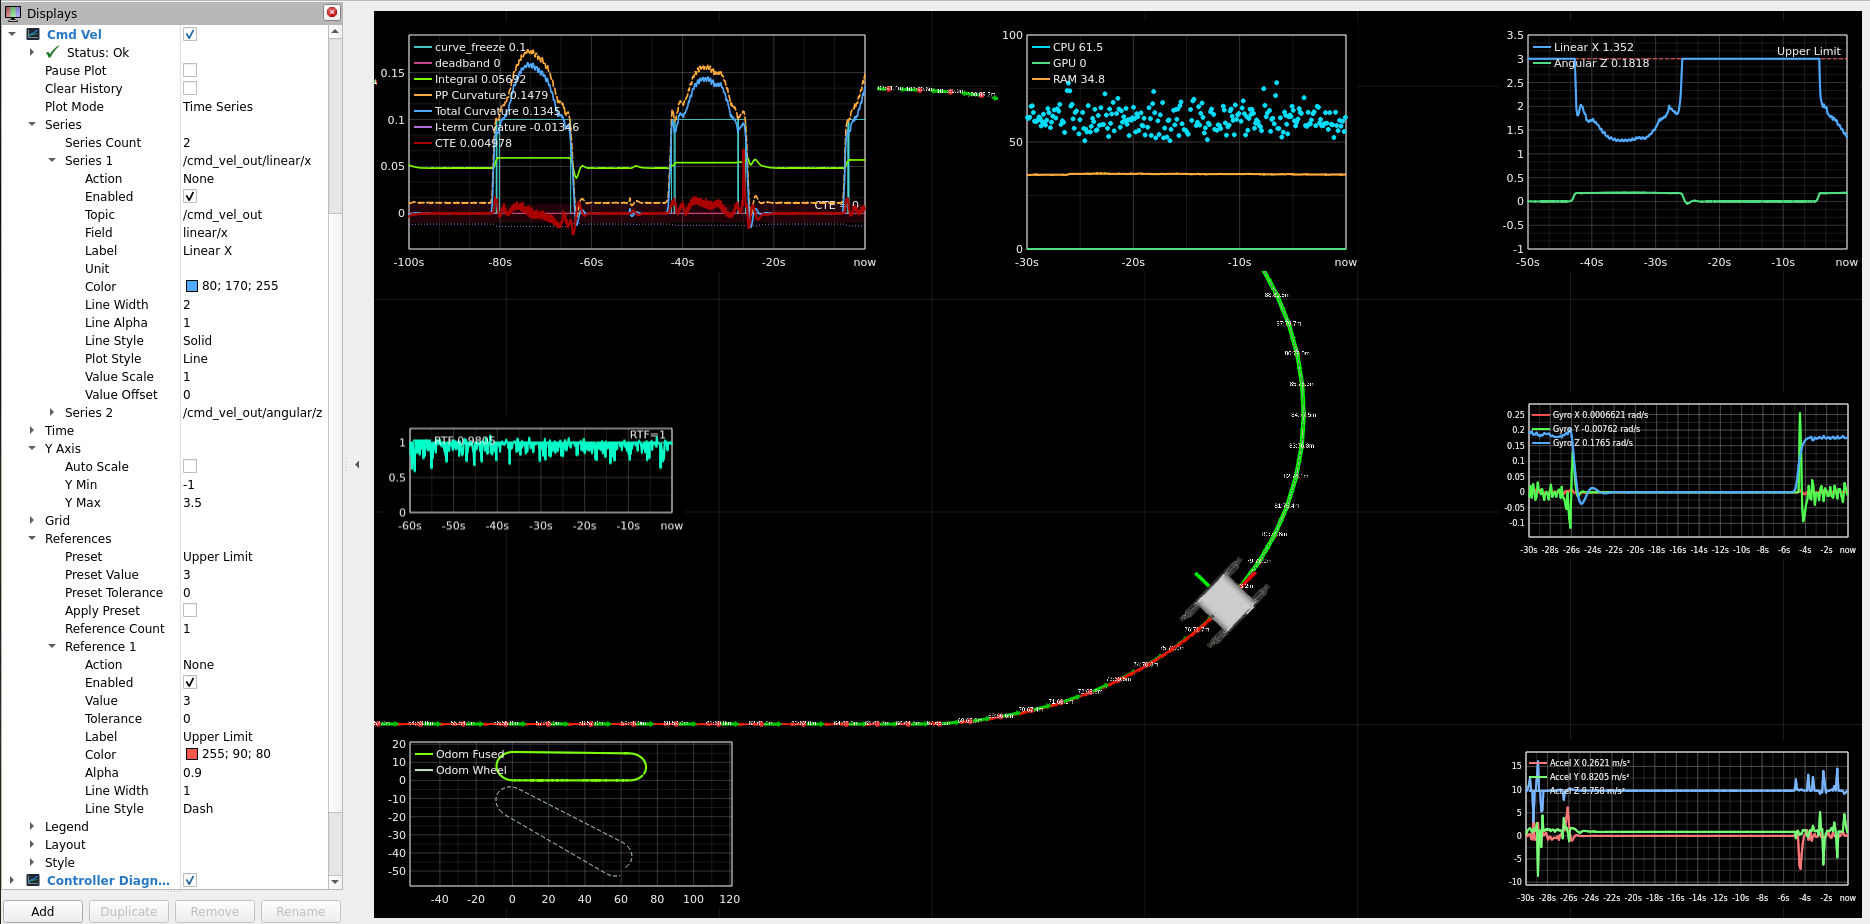
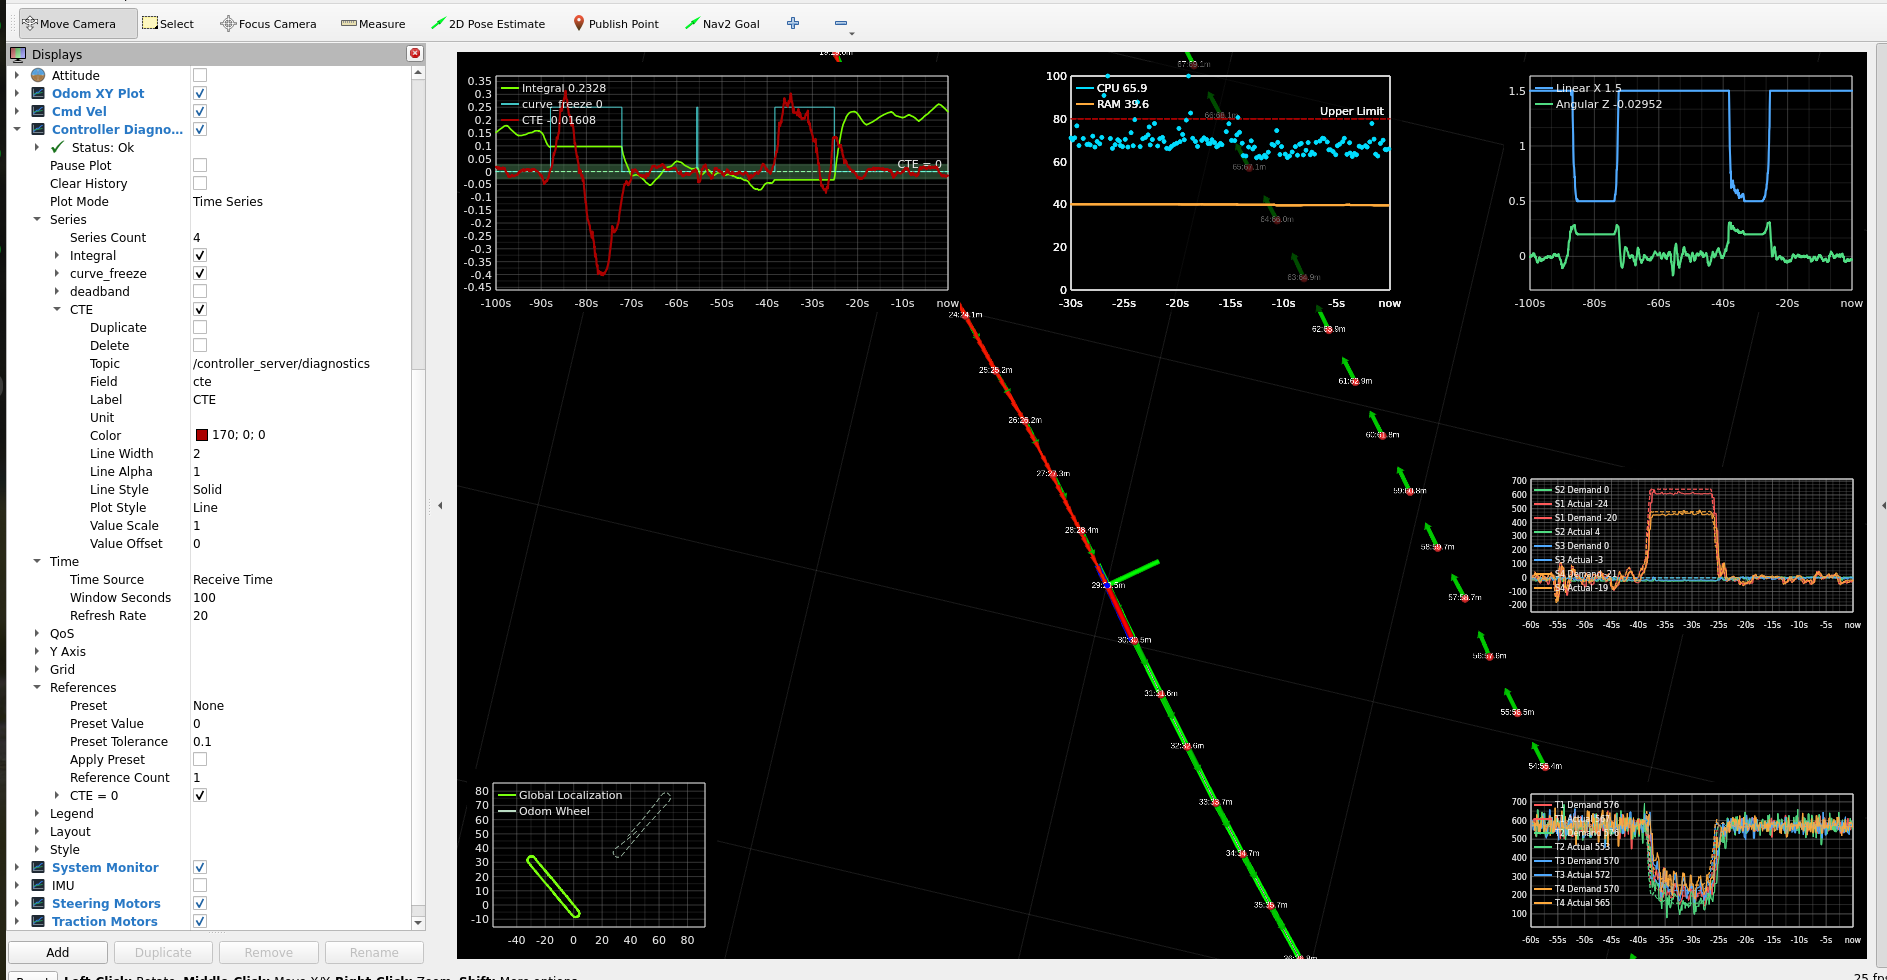
docs: Update README
Refresh the project overview, user-facing feature list, quick start guidance, and example screenshot.

diff --git a/README.md b/README.md
@@ -1,29 +1,30 @@
-# rviz_2d_plot_plugin 📈
+# rviz_2d_plot_plugin
 
 ![Version](https://img.shields.io/badge/version-0.1.0-0f172a)
 ![Humble CI](https://github.com/amgaber95/rviz_2d_plot_plugin/actions/workflows/humble.yml/badge.svg?branch=humble)
 ![ROS 2 Humble](https://img.shields.io/badge/ROS%202-Humble-2563eb)
 ![License](https://img.shields.io/badge/license-MIT-16a34a)
 
-RViz 2 display plugin for rendering live 2D plots directly inside the 3D viewport. It is built for robotics debugging and runtime observability: subscribe to ROS 2 topics, select numeric or boolean fields at runtime, and visualize time-series or XY data without writing custom message extractors or plotting glue code.
+A display plugin for RViz 2 that renders live 2D plots as screen-space overlays. It subscribes to ROS 2 topics and discovers plottable fields at runtime, so controller outputs, diagnostics, odometry, and sensor-derived values can stay visible alongside the 3D scene.
 
 ![Plot2D overview](docs/images/rviz-2d-plot-overview.png)
 
----
+## Highlights
 
-## Features
-
-- **Runtime field introspection**: plot numeric and boolean fields from ROS 2 messages without generated message-specific code.
-- **Time series and XY plots**: plot values over time or field-vs-field, such as odometry X/Y.
-- **Multiple series**: combine series from different topics with independent colors, styles, and scaling.
-- **Reference lines**: add horizontal markers with optional tolerance bands and presets.
-- **Axis control**: auto-scale with padding, use fixed limits, or preserve 1:1 aspect in XY mode.
-- **Plot styling**: choose line, step, or point rendering with solid, dashed, dotted, or dash-dot strokes.
-- **Timestamp modes**: use receive time or `std_msgs/Header` stamps.
-- **Subscription QoS**: match reliable, best-effort, volatile, or transient-local publishers.
-- **Value transforms**: apply per-series scale and offset for unit conversion.
-- **Plot controls**: pause updates or clear history without restarting RViz.
-- **RViz persistence**: save and restore configuration through `.rviz` files.
+| | |
+|---|---|
+| **Runtime introspection** | Select numeric and boolean fields from active ROS 2 topics at runtime |
+| **Time Series & XY** | Plot values over time, or field-vs-field data such as odometry X vs Y |
+| **Multi-series overlay** | Combine series from different topics with independent colors, styles, scales, offsets, and units |
+| **Reference lines** | Add limits, setpoints, zero lines, and tolerance bands |
+| **Row workflow** | Enable rows, drag to reorder, duplicate, or delete series and references |
+| **Axis control** | Auto-scale with padding, fixed min/max limits, or locked 1:1 aspect ratio |
+| **Rendering styles** | Line / Step / Points with Solid, Dash, Dot, DashDot strokes and fractional widths |
+| **Timestamp modes** | Receive time or `std_msgs/Header` stamp with automatic fallback |
+| **QoS configuration** | Choose reliability, durability, and queue depth to match publisher QoS |
+| **Value transforms** | Per-series scale and offset for unit conversion, such as rad to deg |
+| **History preservation** | Samples survive visual edits, reordering, and enable/disable toggles |
+| **Pause & Clear** | Freeze updates or reset history without restarting RViz |
 
 ## Install
 
@@ -36,45 +37,34 @@ colcon build --packages-select rviz_2d_plot_plugin
 source install/setup.bash
 ```
 
----
+## Usage
 
-## Quick Start
+1. **Add** → **Plot2D** in RViz 2
+2. Set **Topic** and **Field** for time-series, or switch **Plot Mode** to XY and set **X Field** / **Y Field**
+3. Add series via **Series Count**, reorder by dragging in the property tree
+4. Tune axes, grid, references, legend, layout, and style as needed
 
-1. In RViz 2 → **Add** → **Plot2D**
-2. Set **Topic** and **Field** for each series
-3. Adjust layout, axes, and style
-
----
-
-## Configuration
-
-<details>
-<summary><b>Plot Mode</b></summary>
-
-| Mode | Description |
-|---|---|
-| Time Series | X-axis is time. Samples plotted at receive or header timestamp. |
-| XY | X-axis is a message field. Set `X Field` and `Y Field` per series. |
-
-</details>
+## Properties Reference
 
 <details>
 <summary><b>Series</b></summary>
 
 | Property | Description |
 |---|---|
-| Topic | ROS 2 topic (dropdown lists active topics) |
-| Field | Nested field path, e.g. `linear/x` (auto-discovered) |
-| X Field / Y Field | Field paths for XY mode |
-| Label | Legend display name |
-| Unit | Appended to legend values |
+| Topic | Dropdown of active ROS 2 topics |
+| Field | Nested message path, e.g. `angular_velocity/z` (auto-discovered at runtime) |
+| X Field / Y Field | Independent field paths for XY mode |
+| Label | Legend display name (also shown when row is collapsed) |
+| Unit | Appended to legend values, e.g. `m/s`, `deg` |
 | Color | RGB line color |
-| Line Width | Stroke width (px) |
+| Line Width | Stroke width in pixels (supports fractional values) |
 | Line Alpha | Opacity 0.0–1.0 |
 | Line Style | Solid · Dash · Dot · DashDot |
 | Plot Style | Line · Step · Points |
-| Value Scale | Multiply raw values |
+| Value Scale | Multiply raw value before plotting |
 | Value Offset | Add after scaling |
+
+Row actions: checkbox enable/disable, drag reorder, duplicate, delete.
 
 </details>
 
@@ -84,11 +74,17 @@ source install/setup.bash
 | Property | Description |
 |---|---|
 | Preset | None · Zero Line · Upper Limit · Lower Limit |
-| Value | Y position of the line |
-| Tolerance | Shaded band ± this amount |
+| Preset Value | Y position used when applying a preset |
+| Tolerance | Shaded band ± this value around the reference line |
+| Apply Preset | Append a new reference from the selected preset |
+| Y Value | Y position of the horizontal line |
 | Label | Legend text |
-| Color / Alpha | Appearance |
+| Color | RGB line color |
+| Alpha | Opacity 0.0–1.0 |
+| Line Width | Stroke width in pixels (supports fractional values) |
 | Line Style | Solid · Dash · Dot · DashDot |
+
+Row actions: same workflow as series, with checkbox, drag, duplicate, and delete controls.
 
 </details>
 
@@ -97,10 +93,77 @@ source install/setup.bash
 
 | Property | Description |
 |---|---|
-| Window Seconds | Rolling window width |
+| Window Seconds | Rolling time window width |
 | Refresh Rate | Render frequency in Hz (default 20) |
 | Time Source | Receive Time · Message Header Stamp |
 | XY History Mode | Rolling Time Window · All Samples |
+
+Falls back to receive time when the message has no `std_msgs/Header`.
+
+</details>
+
+<details>
+<summary><b>Axes</b></summary>
+
+| Property | Description |
+|---|---|
+| Auto Scale | Fit to visible data with configurable padding |
+| X Min / X Max | Fixed X-axis limits (when auto-scale is off) |
+| Y Min / Y Max | Fixed Y-axis limits (when auto-scale is off) |
+| Axis Scale | Independent · 1:1 (preserves aspect ratio in XY mode) |
+
+</details>
+
+<details>
+<summary><b>Grid</b></summary>
+
+| Property | Description |
+|---|---|
+| Major Grid | Toggle major grid lines |
+| Minor Grid | Toggle minor grid lines |
+| X Major Ticks | Target major tick count on X axis |
+| Y Major Ticks | Target major tick count on Y axis |
+| Minor Divisions | Subdivisions between major ticks |
+
+</details>
+
+<details>
+<summary><b>Legend</b></summary>
+
+| Property | Description |
+|---|---|
+| Enabled | Show or hide the legend |
+| Position | Top Left · Top Right · Bottom Left · Bottom Right |
+| Show Values | Display latest numeric value next to each series label |
+| X Offset / Y Offset | Pixel inset from the chosen corner |
+
+Values include the optional series unit when configured.
+
+</details>
+
+<details>
+<summary><b>Layout</b></summary>
+
+| Property | Description |
+|---|---|
+| Width / Height | Plot dimensions in pixels |
+| H Alignment | Left · Center · Right |
+| V Alignment | Top · Center · Bottom |
+| X Offset / Y Offset | Pixels from the anchor edge |
+
+</details>
+
+<details>
+<summary><b>Style</b></summary>
+
+| Property | Description |
+|---|---|
+| Background Color | Plot background RGB |
+| Background Alpha | Plot background opacity |
+| Axis Color | Axis lines and tick labels |
+| Grid Color | Grid lines |
+| Text Color | Legend and value text |
+| Font Size | Points |
 
 </details>
 
@@ -115,72 +178,13 @@ source install/setup.bash
 
 </details>
 
-<details>
-<summary><b>Axes</b></summary>
+## Contributing
 
-| Property | Description |
-|---|---|
-| Auto Scale | Fit to visible data with padding |
-| X/Y Min / Max | Fixed limits when auto-scale is off |
-| Axis Scale | Independent · 1:1 (XY mode) |
-
-</details>
-
-<details>
-<summary><b>Grid</b></summary>
-
-| Property | Description |
-|---|---|
-| Major / Minor Grid | Toggle visibility |
-| X/Y Major Ticks | Target major tick count per axis |
-| Minor Divisions | Subdivisions between major ticks |
-
-</details>
-
-<details>
-<summary><b>Legend</b></summary>
-
-| Property | Description |
-|---|---|
-| Enabled | Show / hide |
-| Position | Top Left · Top Right · Bottom Left · Bottom Right |
-| Show Values | Latest numeric value next to each label |
-| X/Y Offset | Pixel inset from corner |
-
-</details>
-
-<details>
-<summary><b>Layout</b></summary>
-
-| Property | Description |
-|---|---|
-| Width / Height | Plot size in pixels |
-| H Alignment | Left · Center · Right |
-| V Alignment | Top · Center · Bottom |
-| X/Y Offset | Pixels from anchor edge |
-
-</details>
-
-<details>
-<summary><b>Style</b></summary>
-
-| Property | Description |
-|---|---|
-| Background Color / Alpha | Plot background |
-| Axis Color | Axis lines and tick labels |
-| Grid Color | Grid lines |
-| Text Color | Legend and values |
-| Font Size | Points |
-
-</details>
+Contributions are welcome. See [CONTRIBUTING.md](CONTRIBUTING.md).
 
 ## License
 
-This project is licensed under the MIT License. See the [LICENSE](LICENSE) file for details.
-
-## Contributing
-
-Contributions are welcome. Please feel free to submit issues or pull requests.
+[MIT](LICENSE) (c) 2026 Abdelrahman Mahmoud
 
 ## Maintainer
 
